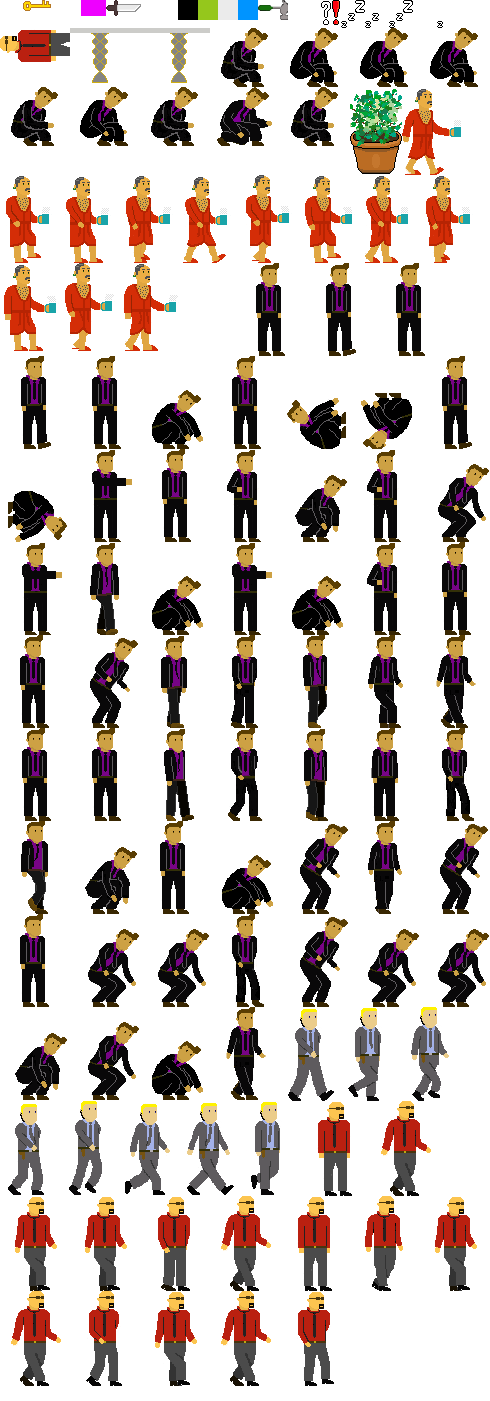
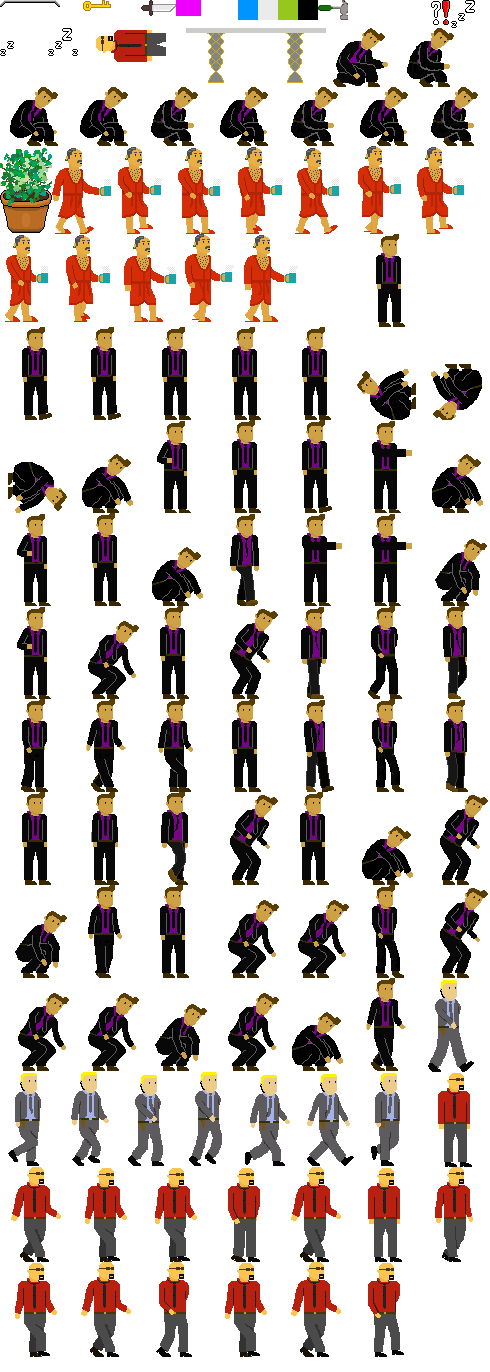
Added vent covers to allow player to climb up through vents

diff --git a/Mafia House - Electric Lemon Studios/Classes/EnvObject.cpp b/Mafia House - Electric Lemon Studios/Classes/EnvObject.cpp
@@ -64,35 +64,7 @@ void PhysObject::initObject(){
 	initObjectNoPhysics();
 	initBoxBody(surfaceSize);
 	getPhysicsBody()->setPositionOffset(surfaceOffset);
-	//initSecondBody();
-	//initThirddBody();
 	initHideBox();
-}
-
-void PhysObject::initThirddBody() {
-	thirdBody = Node::create();
-	thirdBody->setName("phys_object");
-	auto body = PhysicsBody::createBox(surfaceSize + Size(20, 20));
-	body->setDynamic(false);
-	body->setCategoryBitmask(0xFFFFFFFF);
-	body->setCollisionBitmask(0xFFFFFFFF);
-	body->setContactTestBitmask(0xFFFFFFFF);
-	thirdBody->setPhysicsBody(body);
-	thirdBody->setPosition(Vec2(70, 50));
-	addChild(thirdBody);
-}
-
-void PhysObject::initSecondBody() {
-	secondBody = Node::create();
-	secondBody->setName("phys_object");
-	auto body = PhysicsBody::createBox(surfaceSize + Size(10,10));
-	body->setDynamic(false);
-	body->setCategoryBitmask(0xFFFFFFFF);
-	body->setCollisionBitmask(0xFFFFFFFF);
-	body->setContactTestBitmask(0xFFFFFFFF);
-	secondBody->setPhysicsBody(body);
-	secondBody->setPosition(Vec2(70,50));
-	addChild(secondBody);
 }
 
 void PhysObject::initHideBox() {
@@ -118,5 +90,18 @@ Table::Table(){
 }
 
 void Table::initObject() {
+	PhysObject::initObject();
+}
+
+//Vent Cover:
+VentCover::VentCover() {
+	PhysObject::PhysObject();
+	surfaceSize = Size(40, 5);
+	surfaceOffset = Vec2(0, 0);
+	hideBoxSize = Size(50, 5);
+	hideBoxPosition = Vec2(30, -3);
+}
+
+void VentCover::initObject() {
 	PhysObject::initObject();
 }

diff --git a/Mafia House - Electric Lemon Studios/Classes/EnvObject.h b/Mafia House - Electric Lemon Studios/Classes/EnvObject.h
@@ -1,7 +1,6 @@
 #pragma once
 #include "GameObject.h"
-class HideObject : public GameObject
-{
+class HideObject : public GameObject{
 public:
 	HideObject();
 	~HideObject();
@@ -18,8 +17,7 @@ public:
 	bool hiding = false;
 };
 
-class PhysObject : public GameObject
-{
+class PhysObject : public GameObject{
 public:
 	PhysObject();
 	~PhysObject() {}
@@ -27,26 +25,31 @@ public:
 	virtual void initObject();
 
 	void initHideBox();
-	void initSecondBody();
-	void initThirddBody();
 
 protected:
 	Size surfaceSize;
 	Vec2 surfaceOffset;
-	Node* secondBody;
-	Node* thirdBody;
 	Size hideBoxSize;
 	Vec2 hideBoxPosition;
 	Node* hideBox;
 };
 
-class Table : public PhysObject
-{
+class Table : public PhysObject{
 public:
 	Table();
 	~Table() {}
 	CREATE_WITH_FRAME(Table);
 	CREATE_WITH_FRAME_NAME(Table, "objects/table.png");
+
+	void initObject();
+};
+
+class VentCover : public PhysObject {
+public:
+	VentCover();
+	~VentCover() {}
+	CREATE_WITH_FRAME(VentCover);
+	CREATE_WITH_FRAME_NAME(VentCover, "objects/vent_cover.png");
 
 	void initObject();
 };

diff --git a/Mafia House - Electric Lemon Studios/Classes/Level.cpp b/Mafia House - Electric Lemon Studios/Classes/Level.cpp
@@ -937,11 +937,11 @@ bool Level::initLevel(string filename){
 			else if (pieces[0] == "vent") {
 				DoorData ventData;
 				ventData.type = 2;
-				if (pieces.size() >= 2) {//set vent's position on wall
+				if (pieces.size() > 2) {//set vent's position on wall
 					ventData.pos = atof(pieces[2].c_str());
 				}
 				//set vent as locked
-				if (pieces.size() >= 3) {
+				if (pieces.size() > 3) {
 					if (pieces[3] == "locked") {
 						ventData.locked = true;
 					}
@@ -989,6 +989,9 @@ bool Level::initLevel(string filename){
 				PhysObject* physObject;
 				if (pieces[1] == "table") {
 					physObject = Table::createWithSpriteFrameName();
+				}
+				else if (pieces[1] == "vent_cover") {
+					physObject = VentCover::createWithSpriteFrameName();
 				}
 				physObject->initObject();
 				physObject->roomStartPos = Vec2(atof(pieces[2].c_str()), atof(pieces[3].c_str()));

diff --git a/Mafia House - Electric Lemon Studios/Classes/Stair.cpp b/Mafia House - Electric Lemon Studios/Classes/Stair.cpp
@@ -243,10 +243,12 @@ Vent::~Vent() {
 void Vent::initObject(int orient, Vec2 startPos) {
 	if (orient == 2) {//horizontal
 		size = Size(50, 20);
+		outlineName = "objects/vent/outline_h.png";
 		useBox = Size(55 + radius / 2, radius);
 	}
 	else if (orient == 1) {//vertical
 		size = Size(20, 50);
+		outlineName = "objects/vent/outline_v.png";
 		useBox = Size(radius, 55 + radius / 2);
 	}
 	Door::initObject(startPos);
@@ -258,7 +260,7 @@ void Vent::itemHit(Item* item) {
 			if (locked == true) {
 				unlock();
 				item->hp -= 2;//keys can only be used twice
-			}//you can't lock a vent again, ther's no point
+			}//you can't lock a vent again, there's no point
 			item->didHitWall = false;
 		}
 		else if (item->canBreakDoor == true || item->enemyItem == true) {//all enemy items will break down doors

diff --git a/Mafia House - Electric Lemon Studios/Classes/Player.cpp b/Mafia House - Electric Lemon Studios/Classes/Player.cpp
@@ -1023,6 +1023,7 @@ void Player::AttackState::exit(Player* player, GameLayer* mainLayer) {
 
 //Rolling State:
 void Player::RollState::enter(Player* player, GameLayer* mainLayer, float time) {
+	player->wasFalling = true;
 	if (player->prevState->type == "neutral") {
 		player->setPhysicsBody(player->crouchBody);
 		player->bodySize = player->crouchSize;

diff --git a/Mafia House - Electric Lemon Studios/Classes/Level.h b/Mafia House - Electric Lemon Studios/Classes/Level.h
@@ -86,7 +86,7 @@ protected:
 	//for doulbe tap inputs:
 	float prevLeftPressTime = -1;
 	float prevRightPressTime = -1;
-	float doublePressTime = 15 FRAMES;//amount of time for a doulbe press to register
+	float doublePressTime = 10 FRAMES;//amount of time for a doulbe press to register
 
 	bool onContactBegin(PhysicsContact &contact);
 
